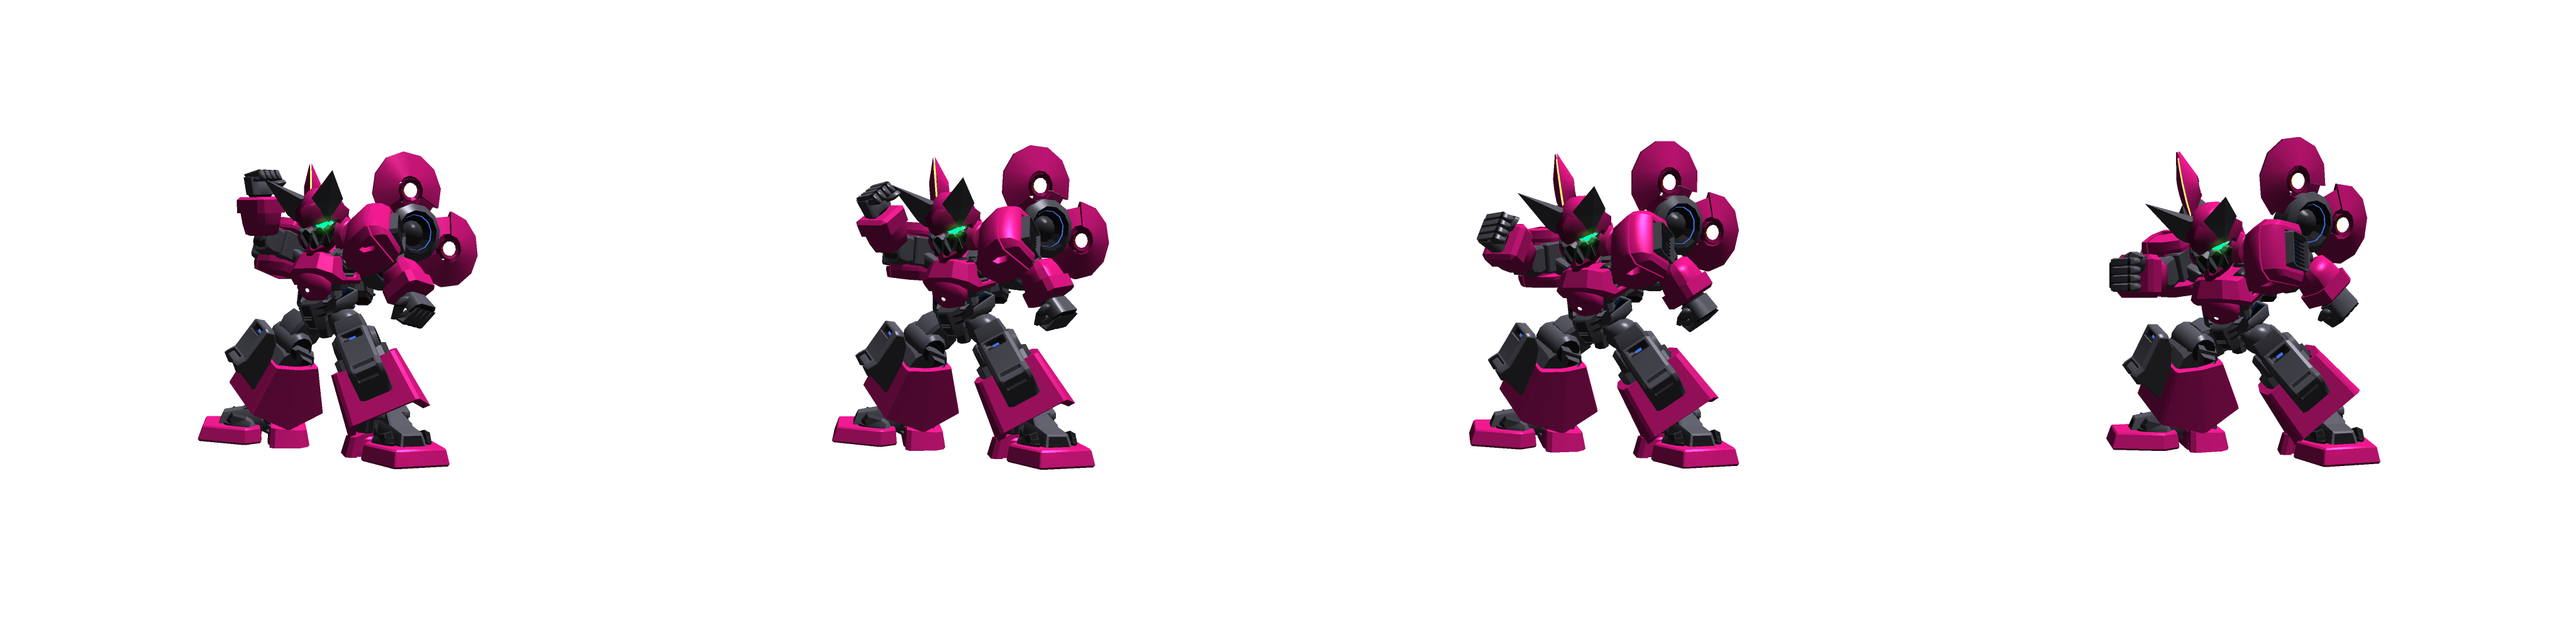
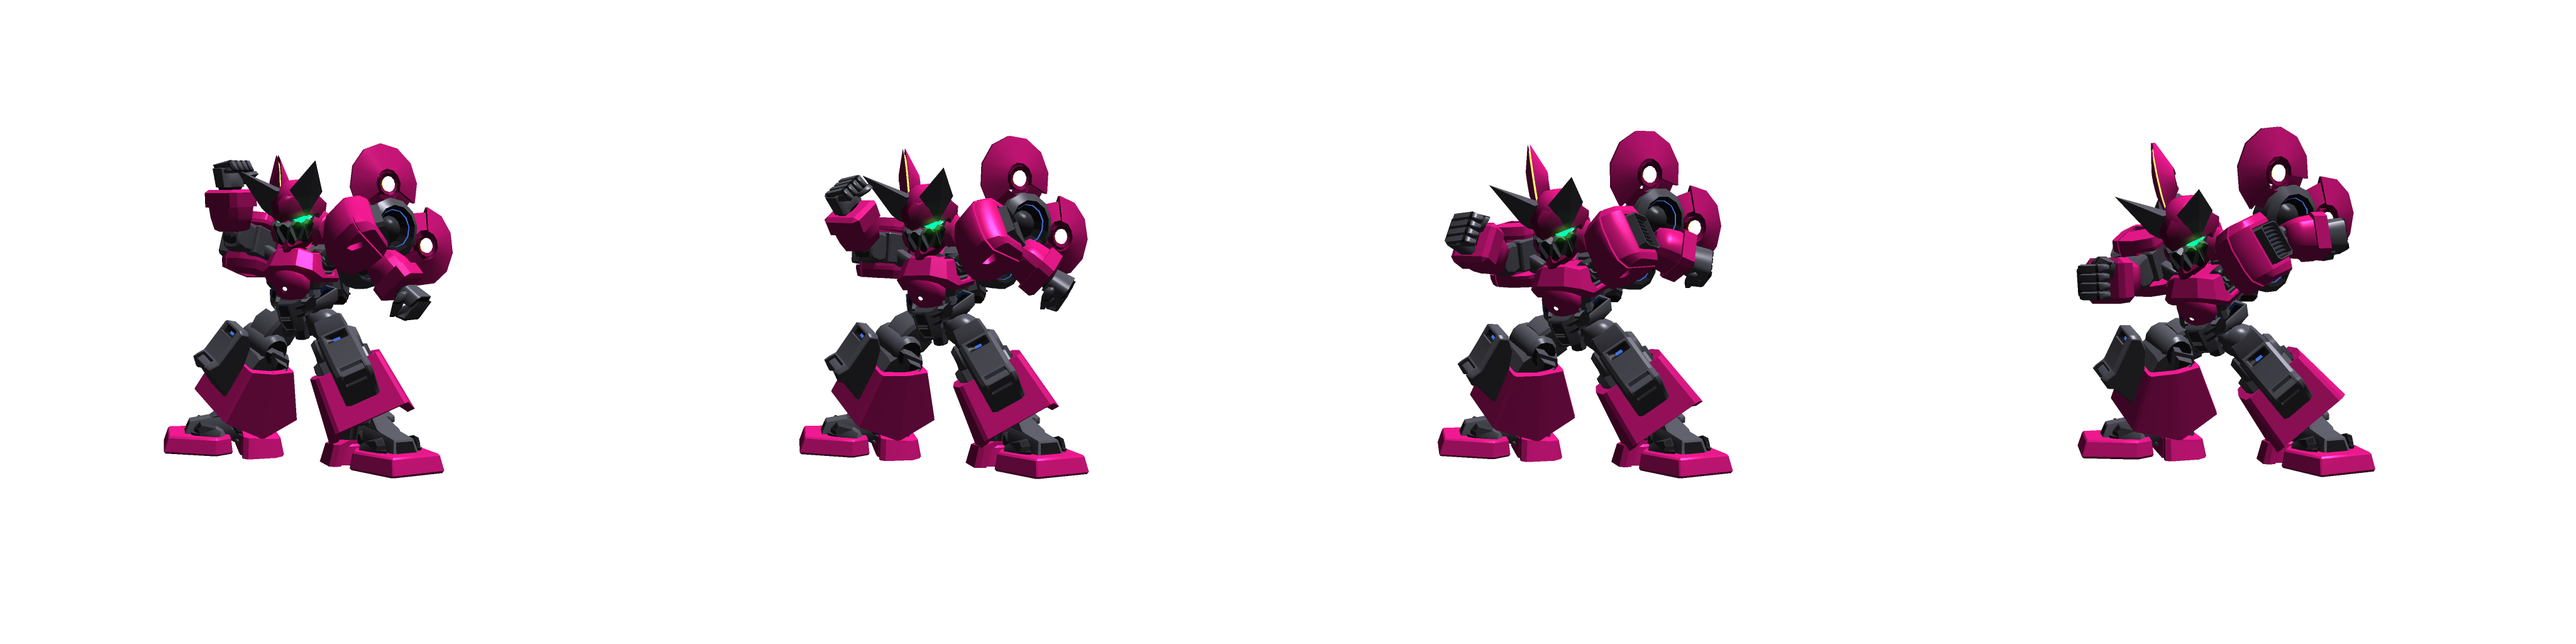
ライトニングドーザの攻撃モーションを調整した

diff --git a/src/js/game-object/armdozer/lightning-dozer/animation/hm-to-stand.js b/src/js/game-object/armdozer/lightning-dozer/animation/hm-to-stand.js
@@ -14,17 +14,15 @@ import {all} from "../../../../animation/all";
  */
 export function hmToStand(model: LightningDozerModel): Animate {
   return all(
-    tween(model.position, t => t.to({x: '+80'}, 400)),
+    tween(model.position, t => t.to({x: '+80'}, 600)),
 
     process(() => {
       model.animation.type = 'HM_TO_STAND';
       model.animation.frame = 0;
-    }).chain(all(
-      tween(model.animation, t => t.to({frame: 1}, 400)),
-
-    )).chain(process(() => {
-      model.animation.type = 'STAND';
-      model.animation.frame = 0;
-    }))
+    }).chain(tween(model.animation, t => t.to({frame: 1}, 600)))
+      .chain(process(() => {
+        model.animation.type = 'STAND';
+        model.animation.frame = 0;
+      }))
   );
 }

diff --git a/src/js/game-object/armdozer/lightning-dozer/animation/arm-hammer.js b/src/js/game-object/armdozer/lightning-dozer/animation/arm-hammer.js
@@ -17,7 +17,7 @@ export function armHammer(model: LightningDozerModel): Animate {
     model.animation.type = 'HM_ATTACK';
     model.animation.frame = 0;
   }).chain(all(
-    tween(model.animation, t => t.to({frame: 1}, 200)),
-    tween(model.position, t => t.to({x: '-80'}, 200))
+    tween(model.animation, t => t.to({frame: 1}, 150)),
+    tween(model.position, t => t.to({x: '-80'}, 150))
   ));
 }
